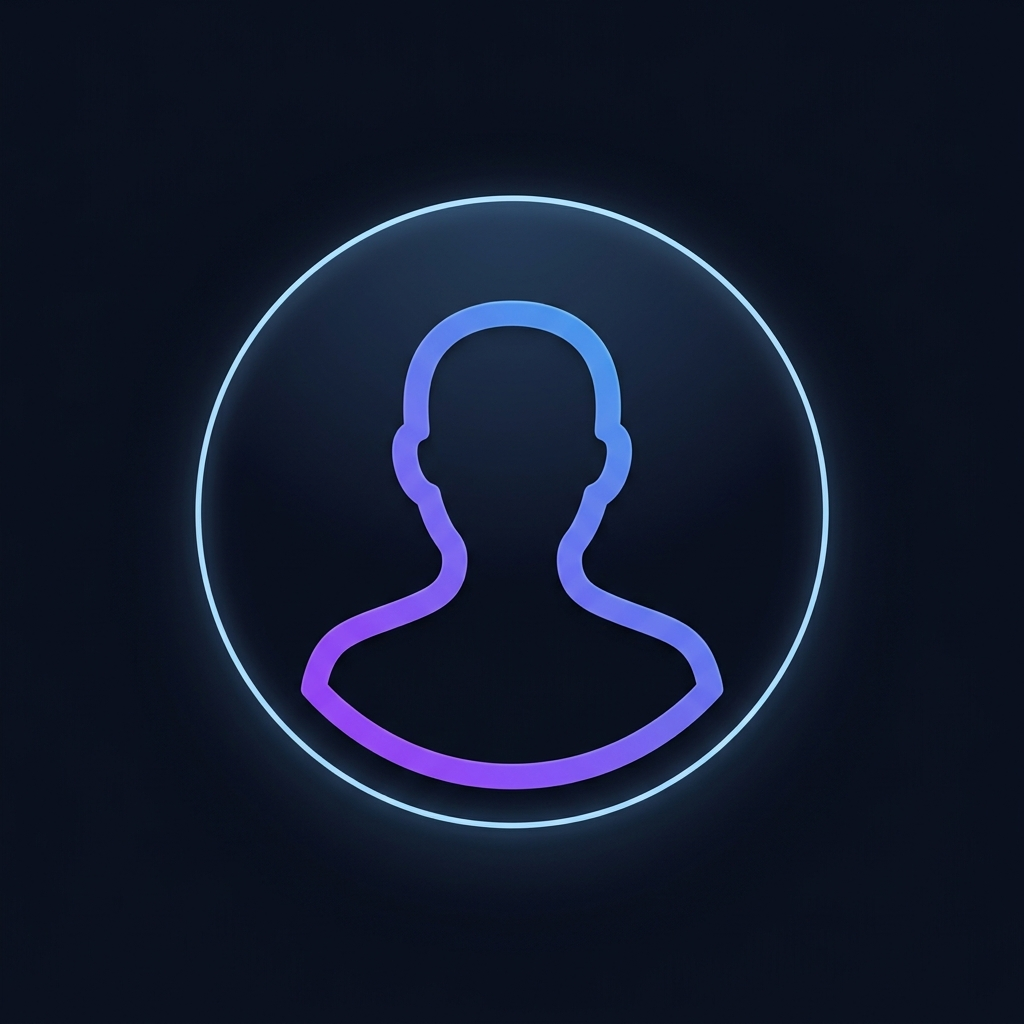
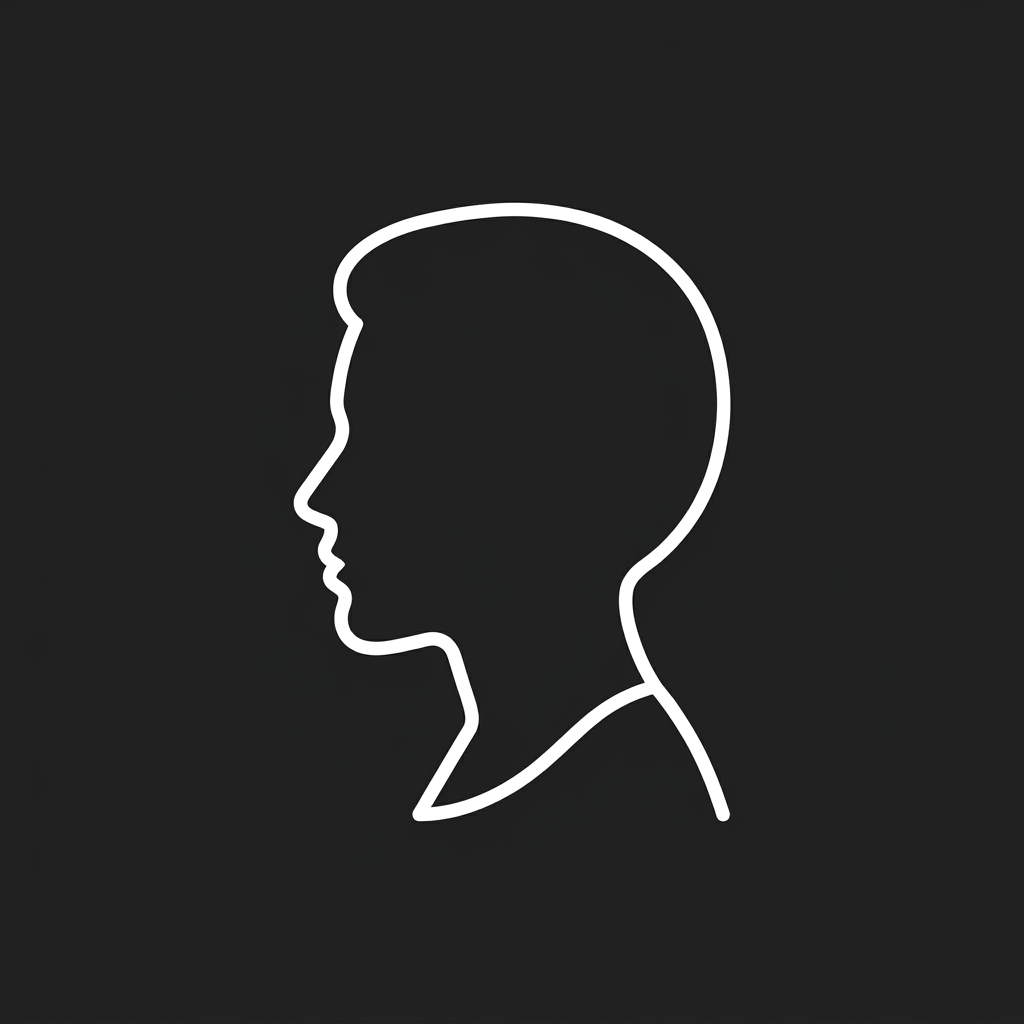
feat(ui): redesign mobile navigation layout and update profile iconography

diff --git a/frontend/index.html b/frontend/index.html
@@ -140,6 +140,27 @@
                     <i class="fa-solid fa-gear"></i> 
                     <span>Settings</span>
                 </a>
+                
+                <!-- Mobile Only Profile Section -->
+                <div class="mobile-profile-section glass-panel" style="display: none; margin-top: 1rem; padding: 1rem; border-top: 1px solid rgba(255,255,255,0.08);">
+                    <div class="mobile-profile-header" style="display: flex; align-items: center; gap: 0.75rem; margin-bottom: 1rem;">
+                        <div id="mobileAvatar" style="width: 40px; height: 40px; border-radius: 50%; background: rgba(255, 255, 255, 0.05); border: 1px solid rgba(255, 255, 255, 0.15); display: flex; align-items: center; justify-content: center; font-size: 1.2rem; color: var(--text-secondary); background-size: cover; background-position: center; flex-shrink: 0;">
+                            <i class="fa-regular fa-user" id="mobileAvatarIcon"></i>
+                        </div>
+                        <div>
+                            <span style="display: block; font-size: 0.9rem; font-weight: 600; color: var(--text-primary);" id="mobileUserName">Store 12</span>
+                            <span style="display: block; font-size: 0.75rem; color: var(--text-muted);" id="mobileUserRole">Electronics</span>
+                        </div>
+                    </div>
+                    <div class="mobile-profile-actions" style="display: flex; flex-direction: column; gap: 0.5rem;">
+                        <a href="#" class="nav-item" id="mobileSettingsBtn" style="padding: 0.6rem 0.75rem; font-size: 0.88rem; background: rgba(255,255,255,0.03);">
+                            <i class="fa-solid fa-user-gear"></i> Account Settings
+                        </a>
+                        <a href="#" class="nav-item" id="mobileLogoutBtn" style="padding: 0.6rem 0.75rem; font-size: 0.88rem; color: var(--status-danger); background: rgba(239, 68, 68, 0.05);">
+                            <i class="fa-solid fa-arrow-right-from-bracket"></i> Sign Out
+                        </a>
+                    </div>
+                </div>
             </nav>
             <div class="right-actions" style="display: flex; align-items: center; gap: 1.5rem;">
                 <!-- Notification Bell -->
@@ -162,8 +183,8 @@
                 <!-- User Profile -->
                 <div class="user-profile-container" style="position: relative;">
                 <div class="user-profile" id="userProfileBtn" style="cursor: pointer; padding: 0.5rem; display: flex; align-items: center; gap: 1rem; border-radius: var(--radius-md); transition: var(--transition-smooth);">
-                    <div id="sidebarAvatar" style="width: 40px; height: 40px; border-radius: 50%; background: linear-gradient(135deg, var(--accent-primary), var(--accent-secondary)); display: flex; align-items: center; justify-content: center; font-size: 1.2rem; color: white; background-size: cover; background-position: center; flex-shrink: 0;">
-                        <i class="fa-solid fa-building" id="sidebarAvatarIcon"></i>
+                    <div id="sidebarAvatar" style="width: 40px; height: 40px; border-radius: 50%; background: rgba(255, 255, 255, 0.05); border: 1px solid rgba(255, 255, 255, 0.15); display: flex; align-items: center; justify-content: center; font-size: 1.2rem; color: var(--text-secondary); background-size: cover; background-position: center; flex-shrink: 0;">
+                        <i class="fa-regular fa-user" id="sidebarAvatarIcon"></i>
                     </div>
                     <div class="user-info">
                         <span class="user-name" id="sidebarUserName">Store 12</span>
@@ -175,8 +196,8 @@
                 <!-- Profile Dropdown -->
                 <div class="profile-dropdown glass-panel" id="profileDropdown" style="display: none; position: absolute; top: 110%; right: 0; width: 220px; padding: 0.5rem; flex-direction: column; z-index: 100; box-shadow: 0 10px 30px rgba(0,0,0,0.5); background: #000000;">
                     <div class="profile-dropdown-header" style="padding: 0.75rem; border-bottom: 1px solid rgba(255,255,255,0.05); margin-bottom: 0.5rem; display: flex; align-items: center; gap: 0.75rem;">
-                        <div id="dropdownAvatar" style="width: 32px; height: 32px; border-radius: 50%; background: linear-gradient(135deg, var(--accent-primary), var(--accent-secondary)); display: flex; align-items: center; justify-content: center; font-size: 1rem; color: white; background-size: cover; background-position: center; flex-shrink: 0;">
-                            <i class="fa-solid fa-building" id="dropdownAvatarIcon"></i>
+                        <div id="dropdownAvatar" style="width: 32px; height: 32px; border-radius: 50%; background: rgba(255, 255, 255, 0.05); border: 1px solid rgba(255, 255, 255, 0.15); display: flex; align-items: center; justify-content: center; font-size: 1rem; color: var(--text-secondary); background-size: cover; background-position: center; flex-shrink: 0;">
+                            <i class="fa-regular fa-user" id="dropdownAvatarIcon"></i>
                         </div>
                         <div>
                             <span style="display: block; font-size: 0.85rem; font-weight: 600; color: var(--text-primary);" id="dropdownUserName">Store 12</span>
@@ -666,7 +687,7 @@
                                 </div>
                                 <div class="avatar-upload-area">
                                     <div id="settingsAvatarPreview" class="settings-avatar-preview">
-                                        <i class="fa-solid fa-building" id="settingsAvatarIcon"></i>
+                                        <i class="fa-regular fa-user" id="settingsAvatarIcon"></i>
                                     </div>
                                     <div class="avatar-upload-info">
                                         <p class="avatar-upload-title">Upload Organization Logo</p>

diff --git a/frontend/app.js b/frontend/app.js
@@ -3383,6 +3383,30 @@ function initUserProfile() {
         });
     }
     
+    // Mobile Profile Dropdown Actions
+    const mobileSettingsBtn = document.getElementById('mobileSettingsBtn');
+    if (mobileSettingsBtn) {
+        mobileSettingsBtn.addEventListener('click', (e) => {
+            e.preventDefault();
+            document.getElementById('navSettings').click();
+            const navMenu = document.querySelector('.nav-menu');
+            if (navMenu) navMenu.classList.remove('open');
+        });
+    }
+    
+    const mobileLogoutBtn = document.getElementById('mobileLogoutBtn');
+    if (mobileLogoutBtn) {
+        mobileLogoutBtn.addEventListener('click', (e) => {
+            e.preventDefault();
+            if(confirm('Are you sure you want to sign out?')) {
+                localStorage.removeItem('stockSense_storeName');
+                localStorage.removeItem('stockSense_industry');
+                localStorage.removeItem('stockSense_jwt');
+                window.location.reload();
+            }
+        });
+    }
+    
     // 4. Save Settings Button
     const saveSettingsBtn = document.getElementById('saveSettingsBtn');
     if (saveSettingsBtn) {
@@ -3499,8 +3523,7 @@ function initUserProfile() {
 }
 
 function updateUserProfileUI(name, role, avatarUrl) {
-    const DEFAULT_AVATAR = '/default_avatar.png';
-    const effectiveAvatar = (avatarUrl && avatarUrl.trim() !== '') ? avatarUrl : DEFAULT_AVATAR;
+    const hasCustomAvatar = avatarUrl && avatarUrl.trim() !== '' && avatarUrl !== '/default_avatar.png' && avatarUrl !== 'default_avatar.png';
 
     // Sidebar
     const sidebarName = document.getElementById('sidebarUserName');
@@ -3512,21 +3535,31 @@ function updateUserProfileUI(name, role, avatarUrl) {
     const sidebarAvatar = document.getElementById('sidebarAvatar');
     const sidebarAvatarIcon = document.getElementById('sidebarAvatarIcon');
     if (sidebarAvatar) {
-        sidebarAvatar.style.backgroundImage = `url('${effectiveAvatar}')`;
-        sidebarAvatar.style.backgroundSize = 'cover';
-        sidebarAvatar.style.backgroundPosition = 'center';
+        if (hasCustomAvatar) {
+            sidebarAvatar.style.backgroundImage = `url('${avatarUrl}')`;
+            sidebarAvatar.style.backgroundSize = 'cover';
+            sidebarAvatar.style.backgroundPosition = 'center';
+            if (sidebarAvatarIcon) sidebarAvatarIcon.style.display = 'none';
+        } else {
+            sidebarAvatar.style.backgroundImage = 'none';
+            if (sidebarAvatarIcon) sidebarAvatarIcon.style.display = 'block';
+        }
     }
-    if (sidebarAvatarIcon) sidebarAvatarIcon.style.display = 'none';
 
     // Settings Preview
     const settingsPreview = document.getElementById('settingsAvatarPreview');
     const settingsIcon = document.getElementById('settingsAvatarIcon');
     if (settingsPreview) {
-        settingsPreview.style.backgroundImage = `url('${effectiveAvatar}')`;
-        settingsPreview.style.backgroundSize = 'cover';
-        settingsPreview.style.backgroundPosition = 'center';
+        if (hasCustomAvatar) {
+            settingsPreview.style.backgroundImage = `url('${avatarUrl}')`;
+            settingsPreview.style.backgroundSize = 'cover';
+            settingsPreview.style.backgroundPosition = 'center';
+            if (settingsIcon) settingsIcon.style.display = 'none';
+        } else {
+            settingsPreview.style.backgroundImage = 'none';
+            if (settingsIcon) settingsIcon.style.display = 'block';
+        }
     }
-    if (settingsIcon) settingsIcon.style.display = 'none';
 
     // Dropdown Header
     const dropdownName = document.getElementById('dropdownUserName');
@@ -3538,16 +3571,41 @@ function updateUserProfileUI(name, role, avatarUrl) {
     const dropdownAvatar = document.getElementById('dropdownAvatar');
     const dropdownAvatarIcon = document.getElementById('dropdownAvatarIcon');
     if (dropdownAvatar) {
-        dropdownAvatar.style.backgroundImage = `url('${effectiveAvatar}')`;
-        dropdownAvatar.style.backgroundSize = 'cover';
-        dropdownAvatar.style.backgroundPosition = 'center';
+        if (hasCustomAvatar) {
+            dropdownAvatar.style.backgroundImage = `url('${avatarUrl}')`;
+            dropdownAvatar.style.backgroundSize = 'cover';
+            dropdownAvatar.style.backgroundPosition = 'center';
+            if (dropdownAvatarIcon) dropdownAvatarIcon.style.display = 'none';
+        } else {
+            dropdownAvatar.style.backgroundImage = 'none';
+            if (dropdownAvatarIcon) dropdownAvatarIcon.style.display = 'block';
+        }
     }
-    if (dropdownAvatarIcon) dropdownAvatarIcon.style.display = 'none';
+
+    // Mobile Profile Sync
+    const mobileName = document.getElementById('mobileUserName');
+    const mobileRole = document.getElementById('mobileUserRole');
+    if (mobileName) mobileName.textContent = name;
+    if (mobileRole) mobileRole.textContent = role;
+
+    const mobileAvatar = document.getElementById('mobileAvatar');
+    const mobileAvatarIcon = document.getElementById('mobileAvatarIcon');
+    if (mobileAvatar) {
+        if (hasCustomAvatar) {
+            mobileAvatar.style.backgroundImage = `url('${avatarUrl}')`;
+            mobileAvatar.style.backgroundSize = 'cover';
+            mobileAvatar.style.backgroundPosition = 'center';
+            if (mobileAvatarIcon) mobileAvatarIcon.style.display = 'none';
+        } else {
+            mobileAvatar.style.backgroundImage = 'none';
+            if (mobileAvatarIcon) mobileAvatarIcon.style.display = 'block';
+        }
+    }
 
     // Toggle Remove Button
     const removeBtn = document.getElementById('removeAvatarBtn');
     if (removeBtn) {
-        if (avatarUrl && avatarUrl.trim() !== '' && avatarUrl !== '/default_avatar.png' && avatarUrl !== 'default_avatar.png') {
+        if (hasCustomAvatar) {
             removeBtn.style.display = 'inline-flex';
         } else {
             removeBtn.style.display = 'none';

diff --git a/frontend/style.css b/frontend/style.css
@@ -2539,17 +2539,17 @@ h1, h2, h3, h4 {
     width: 80px;
     height: 80px;
     border-radius: 20px;
-    background: linear-gradient(135deg, var(--accent-primary), var(--accent-secondary));
+    background: rgba(255, 255, 255, 0.05);
     display: flex;
     align-items: center;
     justify-content: center;
     font-size: 2rem;
-    color: white;
+    color: var(--text-secondary);
     background-size: cover;
     background-position: center;
-    border: 2px solid rgba(255,255,255,0.12);
+    border: 1px solid rgba(255, 255, 255, 0.15);
     flex-shrink: 0;
-    box-shadow: 0 8px 20px rgba(139,92,246,0.25);
+    transition: var(--transition-smooth);
 }
 
 .avatar-upload-info {
@@ -4858,21 +4858,26 @@ input:checked + .slider:before {
         left: 0.75rem;
         padding: 0.5rem 1.0rem;
         height: 60px;
+        display: flex;
+        justify-content: flex-start;
+        gap: 0.75rem;
+    }
+
+    .logo {
+        margin-right: auto;
     }
 
     .right-actions {
         gap: 0.75rem !important;
     }
     
-    .user-info, 
-    #userProfileChevron,
-    .user-profile-container i.fa-chevron-down {
+    .user-profile-container {
         display: none !important;
     }
-    
-    .user-profile {
-        padding: 0.25rem !important;
-        gap: 0 !important;
+
+    .mobile-profile-section {
+        display: flex !important;
+        flex-direction: column;
     }
     
     .nav-menu {
@@ -4969,7 +4974,14 @@ input:checked + .slider:before {
 
 @media (max-width: 768px) {
     .logo span {
-        display: none !important;
+        display: inline-block !important;
+        font-size: 0.92rem !important;
+        font-weight: 700;
+        letter-spacing: -0.015em;
+        background: linear-gradient(135deg, #c4b5fd 0%, #8b5cf6 100%);
+        -webkit-background-clip: text;
+        background-clip: text;
+        -webkit-text-fill-color: transparent;
     }
 
     /* Stacking top actions & search */
@@ -5079,6 +5091,7 @@ input:checked + .slider:before {
         top: 0.375rem !important;
         left: 0.375rem !important;
         padding: 0.5rem 0.6rem !important;
+        gap: 0.4rem !important;
     }
     
     .nav-menu {
